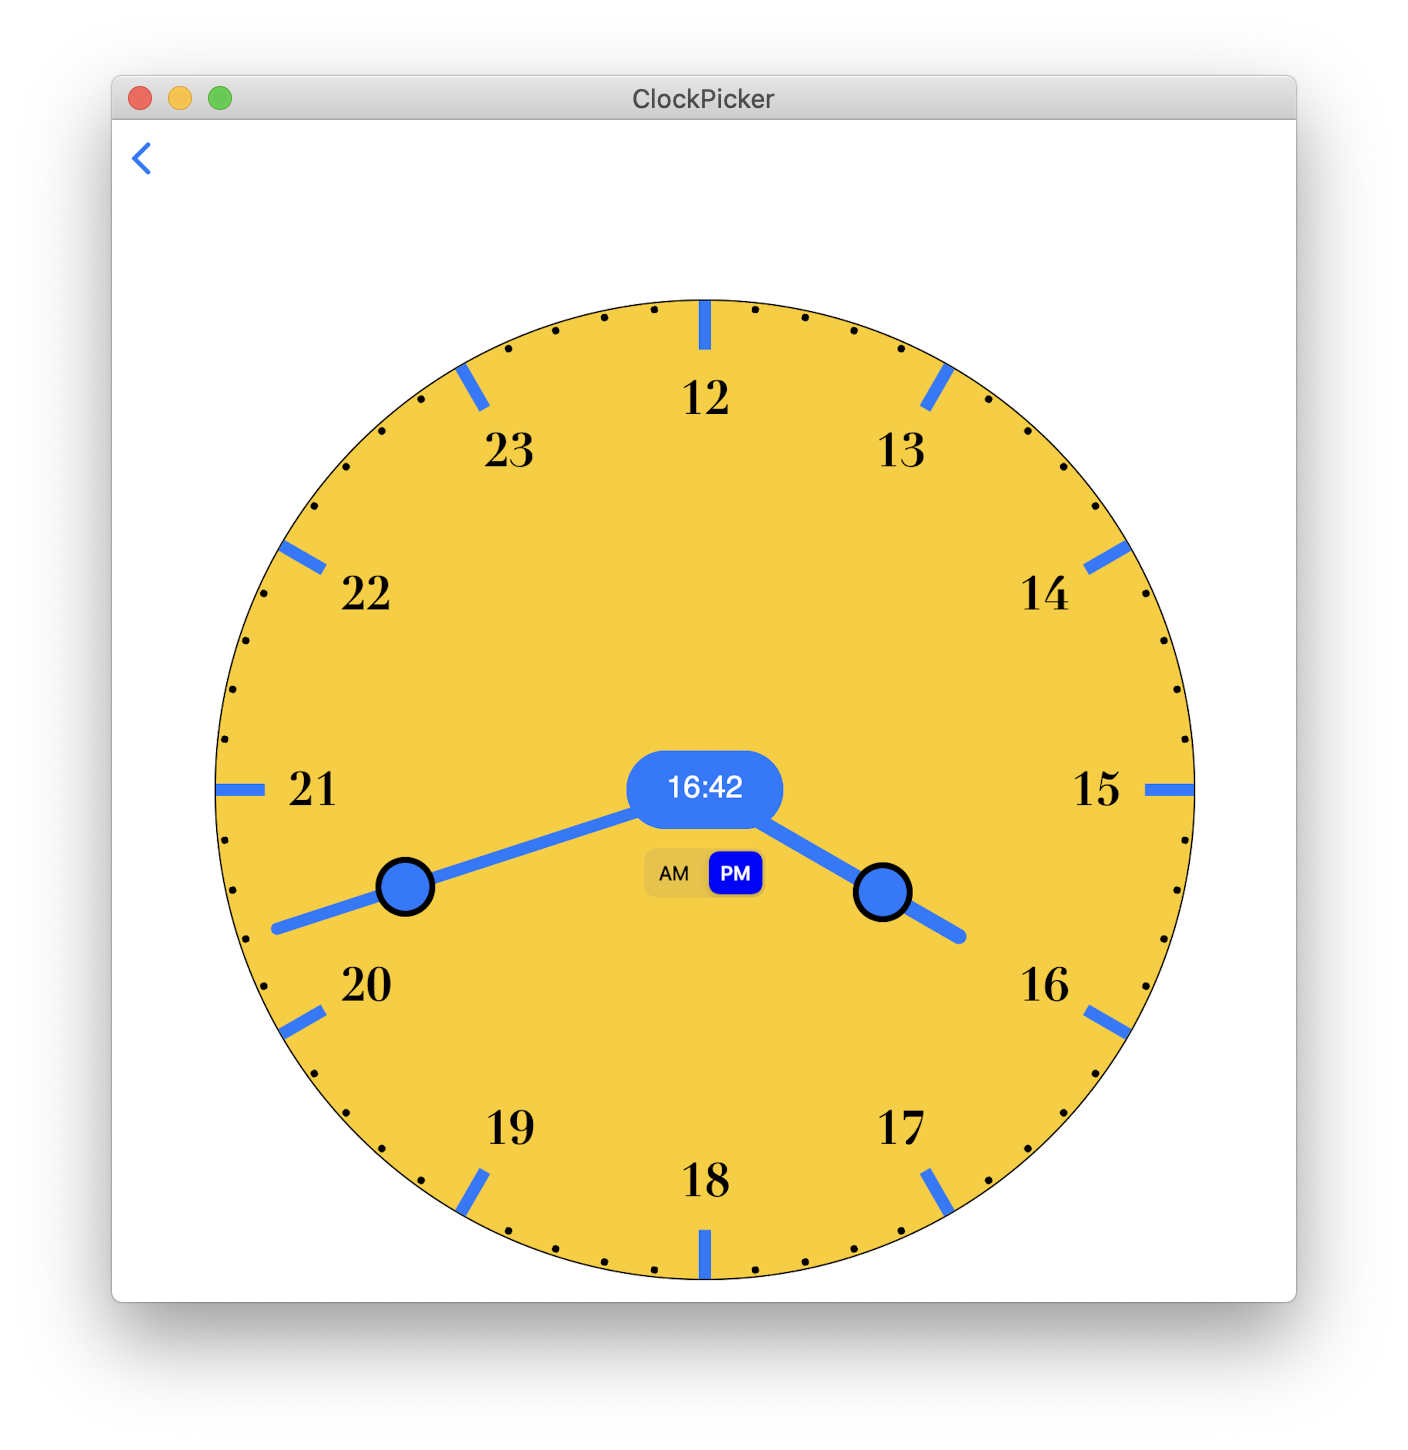
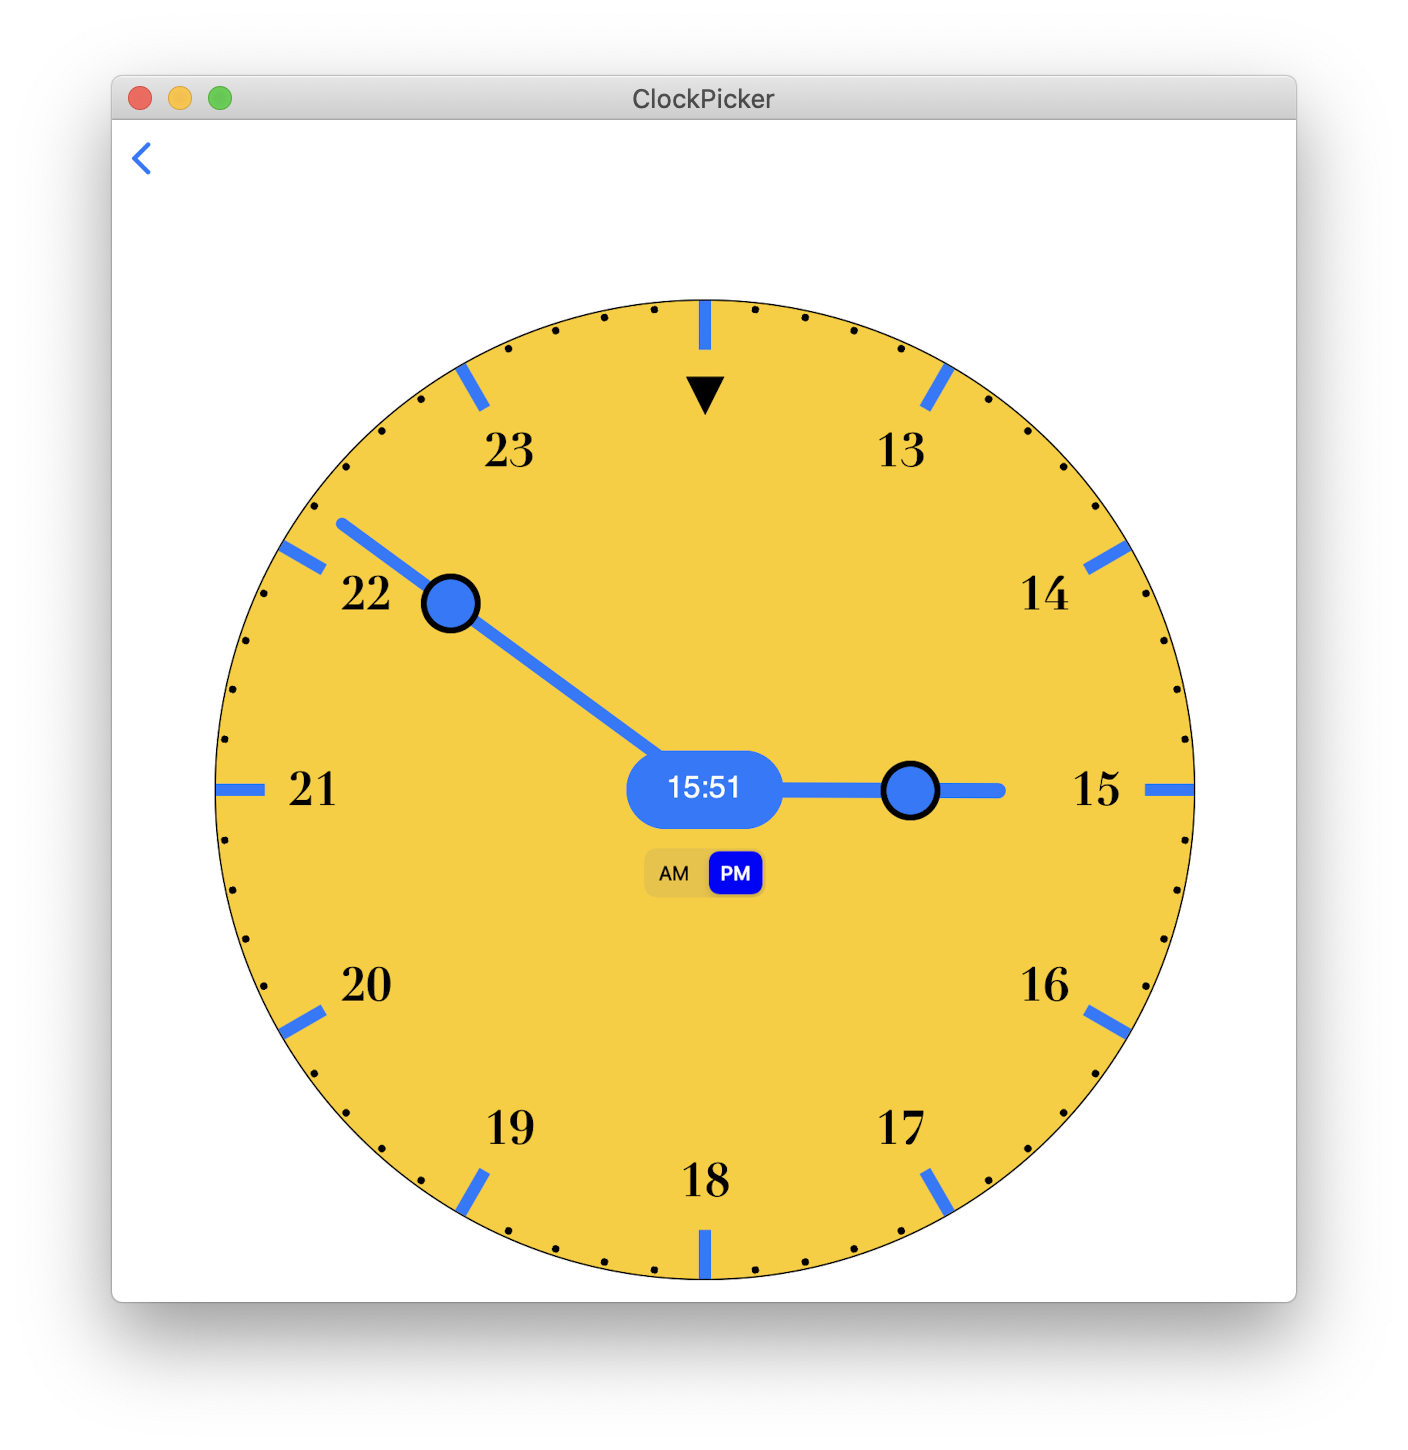
initial commit

diff --git a/ClockPicker/Clock/ClockHand.swift b/ClockPicker/Clock/ClockHand.swift
@@ -26,6 +26,10 @@ struct ClockHand: View {
     @State var handRatio = CGFloat(1)
     @State var handleColor = Color.primary
     @State var handleRimColor = Color.primary
+    
+    let impact = UIImpactFeedbackGenerator(style: .light)
+    
+    @State private var prevHour = 0
 
     var body: some View {
         
@@ -65,7 +69,7 @@ struct ClockHand: View {
             self.dragHandle.position(self.handlePos).gesture(drag)
         }
     }
-    
+
     var dragHandle: some View {
         return ZStack {
             Circle().overlay(
@@ -123,6 +127,10 @@ struct ClockHand: View {
             clockDate = newDate
         }
         adjustClockDate()
+        if options.impactFeedbackOn && Calendar.current.component(.hour, from: clockDate) != prevHour {
+            prevHour = Calendar.current.component(.hour, from: clockDate)
+            impact.impactOccurred()
+        }
     }
     
     private func updateClockMinute(_ angleDeg: Float) {

diff --git a/ClockPicker/Clock/ClockMarker.swift b/ClockPicker/Clock/ClockMarker.swift
@@ -21,7 +21,7 @@ struct ClockMarker: Hashable {
     
     static func AMlabelSet() -> [ClockMarker] {
         return [
-            ClockMarker(degrees: 0, label: "0"),
+            ClockMarker(degrees: 0, label: "▼"),
             ClockMarker(degrees: 30, label: "1"),
             ClockMarker(degrees: 60, label: "2"),
             ClockMarker(degrees: 90, label: "3"),
@@ -38,7 +38,7 @@ struct ClockMarker: Hashable {
     
     static func PMlabelSet() -> [ClockMarker] {
         return [
-            ClockMarker(degrees: 0, label: "12"),
+            ClockMarker(degrees: 0, label: "▼"),
             ClockMarker(degrees: 30, label: "13"),
             ClockMarker(degrees: 60, label: "14"),
             ClockMarker(degrees: 90, label: "15"),

diff --git a/ClockPicker/ContentView.swift b/ClockPicker/ContentView.swift
@@ -60,6 +60,7 @@ struct ContentView: View {
         options.minuteHandWidth = CGFloat(8)
         options.handleSize = CGFloat(35)
         options.ampmTintColor = UIColor.blue
+        options.impactFeedbackOn = true
     }
     
     func getDateString() -> String {

diff --git a/ClockPicker/Clock/ClockLooks.swift b/ClockPicker/Clock/ClockLooks.swift
@@ -51,4 +51,5 @@ class ClockLooks : ObservableObject {
     @Published var ampmNormalColor: UIColor = UIColor.black
     @Published var ampmTintColor: UIColor = UIColor.black
     
+    @Published var impactFeedbackOn: Bool = false
 }
